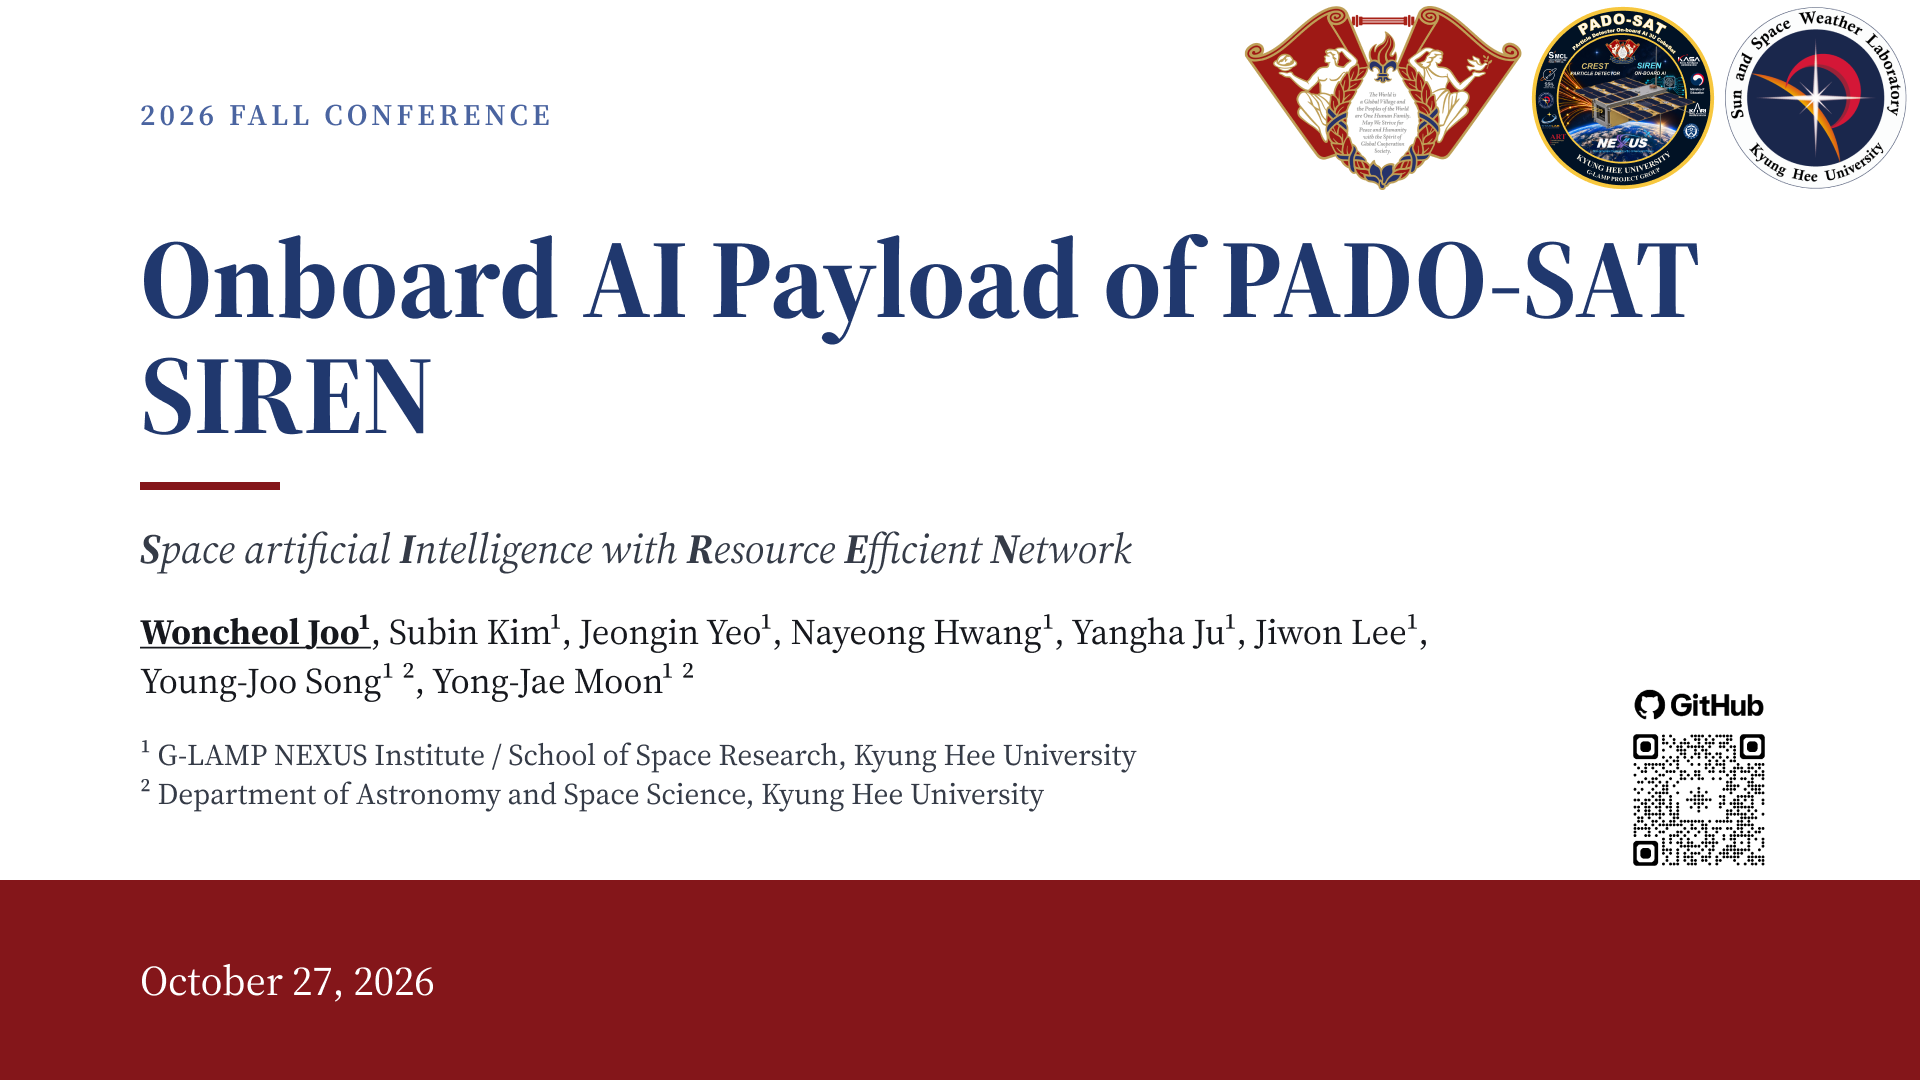
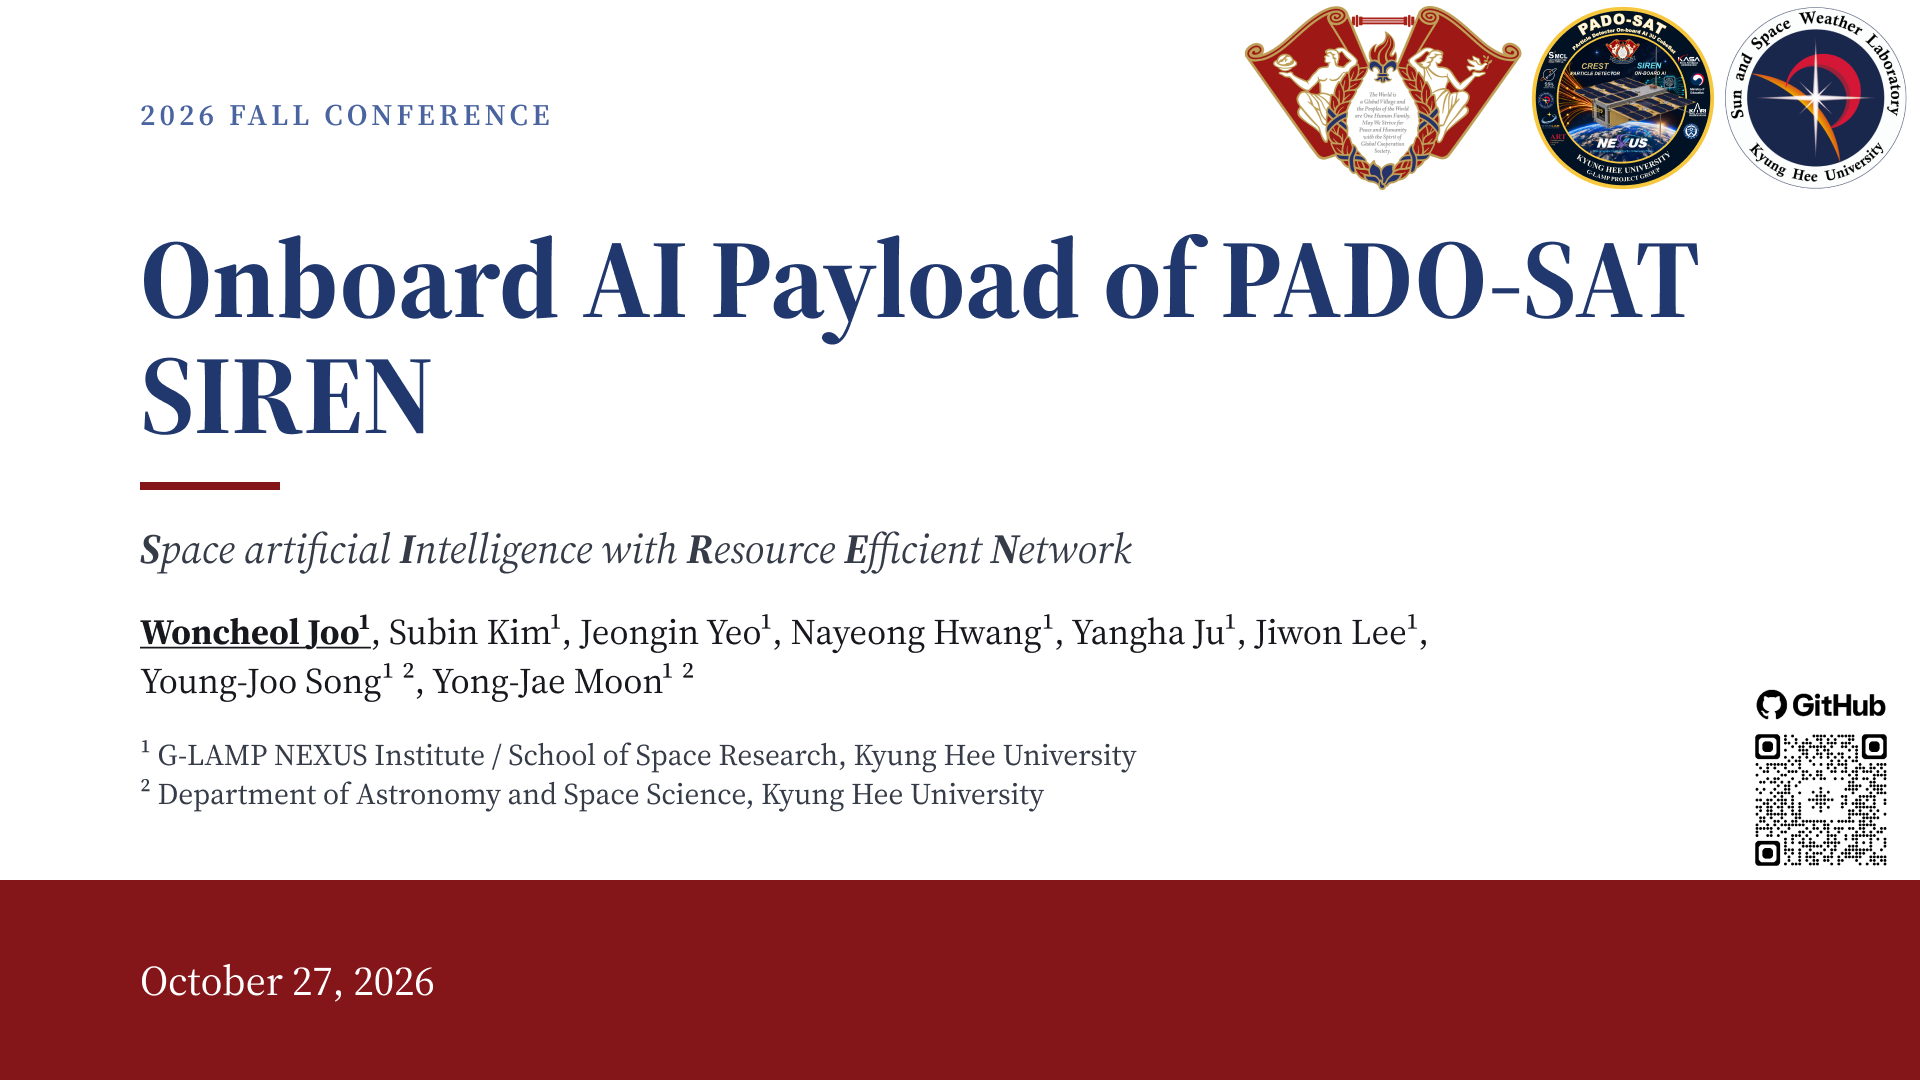
Sync latest Figma cover edit and version slide previews

Changed region(s): [[0.8438, 0.6417, 1.0, 0.825]]

diff --git a/tools/publish_slides.py b/tools/publish_slides.py
@@ -61,8 +61,9 @@ def readme(data):
         if slide["n"] == data["main_slides"] + 1:
             lines += ["## Appendix", ""]
         n, title = slide["n"], slide["title"]
+        version = slide["sha256"][:12]
         lines += [f"### {n:02d}. {title}", "",
-                  f"![Slide {n:02d}: {title}]({slide['preview']})", ""]
+                  f"![Slide {n:02d}: {title}]({slide['preview']}?v={version})", ""]
     return "\n".join(lines)
 
 def pdf(data):

diff --git a/README.md b/README.md
@@ -8,154 +8,154 @@ PADO-SAT의 온보드 AI 탑재체 SIREN 발표 자료입니다.
 
 ### 01. Onboard AI Payload of PADO-SAT: SIREN
 
-![Slide 01: Onboard AI Payload of PADO-SAT: SIREN](assets/slides/01.png)
+![Slide 01: Onboard AI Payload of PADO-SAT: SIREN](assets/slides/01.png?v=6e8f21be2cc4)
 
 ### 02. Mission overview
 
-![Slide 02: Mission overview](assets/slides/02.png)
+![Slide 02: Mission overview](assets/slides/02.png?v=1c6b11f8d6b3)
 
 ### 03. PADO-SAT: mission overview
 
-![Slide 03: PADO-SAT: mission overview](assets/slides/03.png)
+![Slide 03: PADO-SAT: mission overview](assets/slides/03.png?v=72b4337052f0)
 
 ### 04. Goal of SIREN
 
-![Slide 04: Goal of SIREN](assets/slides/04.png)
+![Slide 04: Goal of SIREN](assets/slides/04.png?v=9b21688abc86)
 
 ### 05. System budget from SIREN’s perspective
 
-![Slide 05: System budget from SIREN’s perspective](assets/slides/05.png)
+![Slide 05: System budget from SIREN’s perspective](assets/slides/05.png?v=9160247f8cff)
 
 ### 06. FPGA COTS platform: Z7000-P3
 
-![Slide 06: FPGA COTS platform: Z7000-P3](assets/slides/06.png)
+![Slide 06: FPGA COTS platform: Z7000-P3](assets/slides/06.png?v=7bc9981791e7)
 
 ### 07. SIREN-PADO SAT Interfaces
 
-![Slide 07: SIREN-PADO SAT Interfaces](assets/slides/07.png)
+![Slide 07: SIREN-PADO SAT Interfaces](assets/slides/07.png?v=e8f158ef2090)
 
 ### 08. Payload design
 
-![Slide 08: Payload design](assets/slides/08.png)
+![Slide 08: Payload design](assets/slides/08.png?v=4519ef42e33d)
 
 ### 09. Effects of High Energy Charged Particles
 
-![Slide 09: Effects of High Energy Charged Particles](assets/slides/09.png)
+![Slide 09: Effects of High Energy Charged Particles](assets/slides/09.png?v=340ce3ae5e0e)
 
 ### 10. AI #1: Particle hazard detection
 
-![Slide 10: AI #1: Particle hazard detection](assets/slides/10.png)
+![Slide 10: AI #1: Particle hazard detection](assets/slides/10.png?v=7feb1a6919fd)
 
 ### 11. Anomalies in Satellite Housekeeping Data
 
-![Slide 11: Anomalies in Satellite Housekeeping Data](assets/slides/11.png)
+![Slide 11: Anomalies in Satellite Housekeeping Data](assets/slides/11.png?v=516dcc742d79)
 
 ### 12. AI #2: HK anomaly detection
 
-![Slide 12: AI #2: HK anomaly detection](assets/slides/12.png)
+![Slide 12: AI #2: HK anomaly detection](assets/slides/12.png?v=9a1572ce5dec)
 
 ### 13. Satellite Downlink Constraints
 
-![Slide 13: Satellite Downlink Constraints](assets/slides/13.png)
+![Slide 13: Satellite Downlink Constraints](assets/slides/13.png?v=4f6934467908)
 
 ### 14. AI #3: Science data compression
 
-![Slide 14: AI #3: Science data compression](assets/slides/14.png)
+![Slide 14: AI #3: Science data compression](assets/slides/14.png?v=2eaf6b398bd8)
 
 ### 15. Three AIs on one FPGA SoC
 
-![Slide 15: Three AIs on one FPGA SoC](assets/slides/15.png)
+![Slide 15: Three AIs on one FPGA SoC](assets/slides/15.png?v=fb0bc823d037)
 
 ### 16. Download and weekly NN tests
 
-![Slide 16: Download and weekly NN tests](assets/slides/16.png)
+![Slide 16: Download and weekly NN tests](assets/slides/16.png?v=dc69ceed675a)
 
 ### 17. Future Work and Summary
 
-![Slide 17: Future Work and Summary](assets/slides/17.png)
+![Slide 17: Future Work and Summary](assets/slides/17.png?v=846666af58d5)
 
 ### 18. Future Work
 
-![Slide 18: Future Work](assets/slides/18.png)
+![Slide 18: Future Work](assets/slides/18.png?v=9dfac6a2f239)
 
 ### 19. Summary
 
-![Slide 19: Summary](assets/slides/19.png)
+![Slide 19: Summary](assets/slides/19.png?v=d6e11949c771)
 
 ### 20. Thank you
 
-![Slide 20: Thank you](assets/slides/20.png)
+![Slide 20: Thank you](assets/slides/20.png?v=ae9d35468f77)
 
 ## Appendix
 
 ### 21. Appendix
 
-![Slide 21: Appendix](assets/slides/21.png)
+![Slide 21: Appendix](assets/slides/21.png?v=72b78fa0d2ec)
 
 ### 22. Abstract
 
-![Slide 22: Abstract](assets/slides/22.png)
+![Slide 22: Abstract](assets/slides/22.png?v=73a58fa6c444)
 
 ### 23. Onboard AI in Previous Missions
 
-![Slide 23: Onboard AI in Previous Missions](assets/slides/23.png)
+![Slide 23: Onboard AI in Previous Missions](assets/slides/23.png?v=11604f545746)
 
 ### 24. AI Networks in SIREN: ModernTCN and GRU
 
-![Slide 24: AI Networks in SIREN: ModernTCN and GRU](assets/slides/24.png)
+![Slide 24: AI Networks in SIREN: ModernTCN and GRU](assets/slides/24.png?v=f9731feb5bc7)
 
 ### 25. How SIREN is built
 
-![Slide 25: How SIREN is built](assets/slides/25.png)
+![Slide 25: How SIREN is built](assets/slides/25.png?v=39e542ec7a57)
 
 ### 26. Three models on the FPGA
 
-![Slide 26: Three models on the FPGA](assets/slides/26.png)
+![Slide 26: Three models on the FPGA](assets/slides/26.png?v=ab93a3581fc0)
 
 ### 27. How is correctness verified?
 
-![Slide 27: How is correctness verified?](assets/slides/27.png)
+![Slide 27: How is correctness verified?](assets/slides/27.png?v=ed45a480f969)
 
 ### 28. Resources, timing and weight update
 
-![Slide 28: Resources, timing and weight update](assets/slides/28.png)
+![Slide 28: Resources, timing and weight update](assets/slides/28.png?v=015c3f29a948)
 
 ### 29. Placement, Routing
 
-![Slide 29: Placement, Routing](assets/slides/29.png)
+![Slide 29: Placement, Routing](assets/slides/29.png?v=7b7462aacf5b)
 
 ### 30. Performance trade-off per model
 
-![Slide 30: Performance trade-off per model](assets/slides/30.png)
+![Slide 30: Performance trade-off per model](assets/slides/30.png?v=a7fd997ff18a)
 
 ### 31. One orbit, one operating window
 
-![Slide 31: One orbit, one operating window](assets/slides/31.png)
+![Slide 31: One orbit, one operating window](assets/slides/31.png?v=304712e3dfbb)
 
 ### 32. AI inference, result transfer and shutdown
 
-![Slide 32: AI inference, result transfer and shutdown](assets/slides/32.png)
+![Slide 32: AI inference, result transfer and shutdown](assets/slides/32.png?v=75415b2abe67)
 
 ### 33. Weekly batch versus orbit integration
 
-![Slide 33: Weekly batch versus orbit integration](assets/slides/33.png)
+![Slide 33: Weekly batch versus orbit integration](assets/slides/33.png?v=c6445cf4ec31)
 
 ### 34. Fault management as implemented
 
-![Slide 34: Fault management as implemented](assets/slides/34.png)
+![Slide 34: Fault management as implemented](assets/slides/34.png?v=78cb9342dbda)
 
 ### 35. Fault management items (1/2): hardware
 
-![Slide 35: Fault management items (1/2): hardware](assets/slides/35.png)
+![Slide 35: Fault management items (1/2): hardware](assets/slides/35.png?v=e781b1d15814)
 
 ### 36. Fault management items (2/2): service and system
 
-![Slide 36: Fault management items (2/2): service and system](assets/slides/36.png)
+![Slide 36: Fault management items (2/2): service and system](assets/slides/36.png?v=4f6eefa2828c)
 
 ### 37. Digital Twin data and retraining
 
-![Slide 37: Digital Twin data and retraining](assets/slides/37.png)
+![Slide 37: Digital Twin data and retraining](assets/slides/37.png?v=bc08830d3a22)
 
 ### 38. Abbreviations
 
-![Slide 38: Abbreviations](assets/slides/38.png)
+![Slide 38: Abbreviations](assets/slides/38.png?v=166659384a1e)
